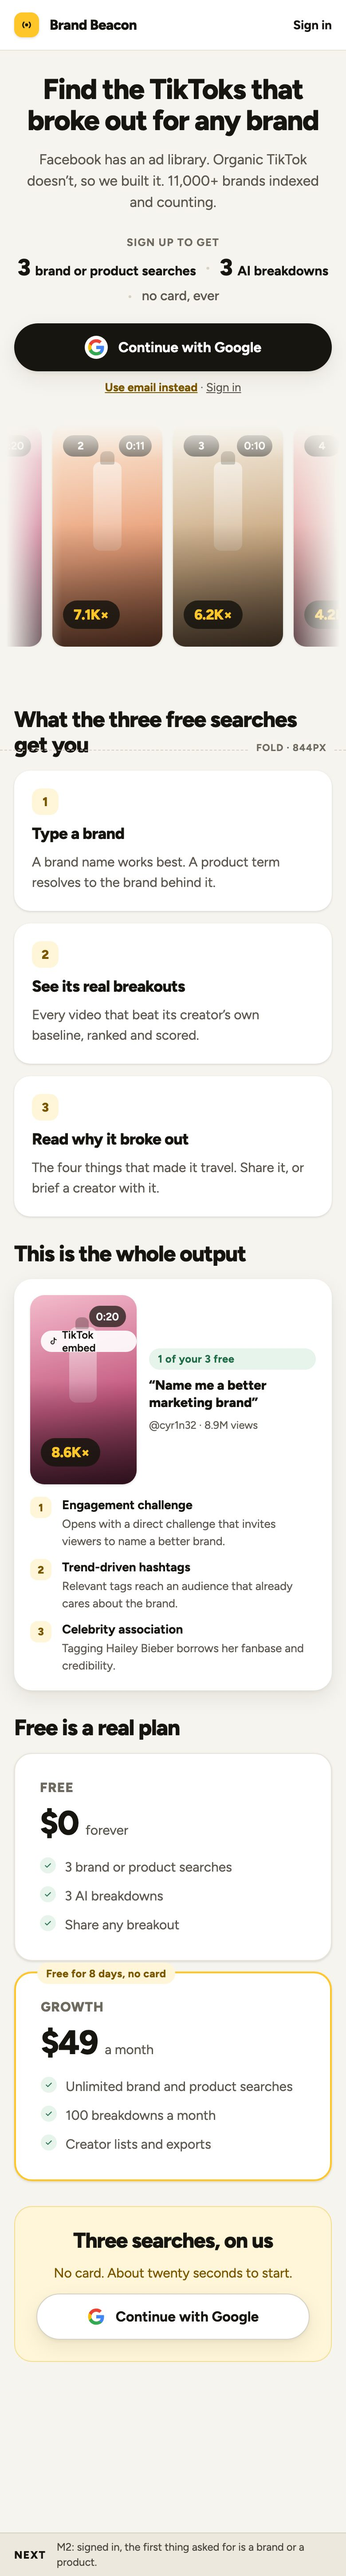
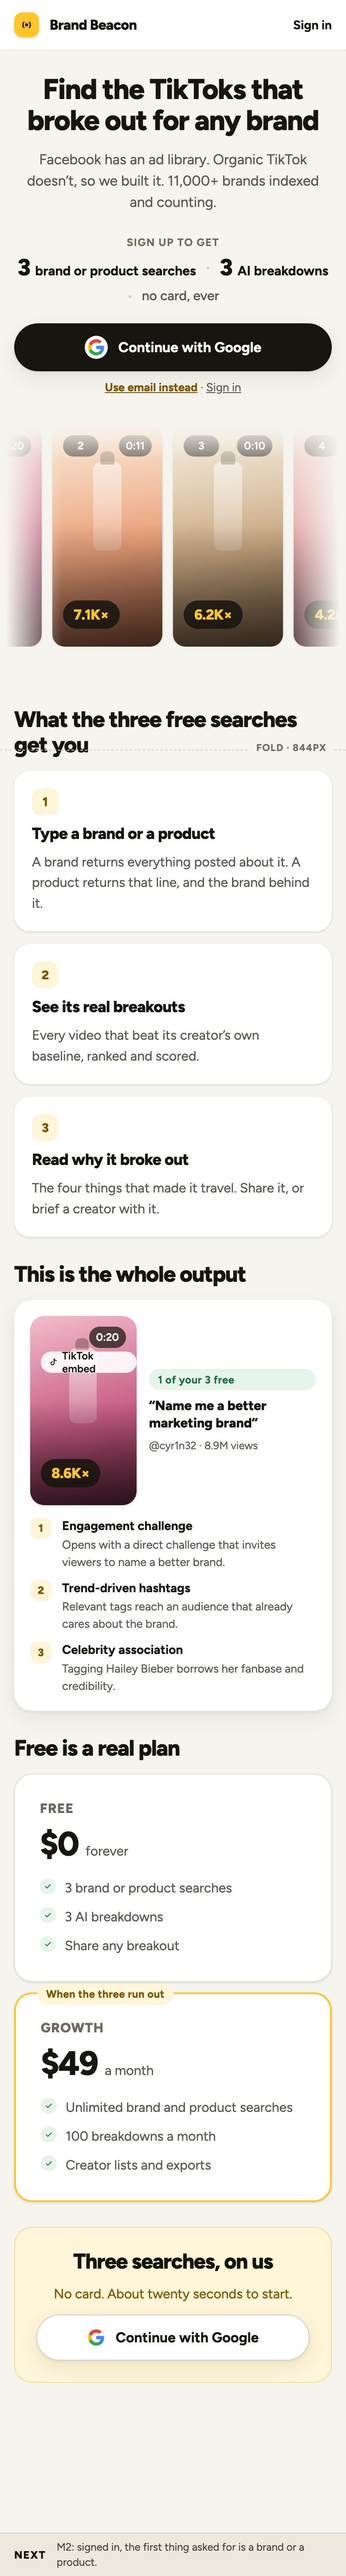
Landing page: drop the leftover 8-day trial badge, step 1 names products

diff --git a/user-flow/src/gen.py b/user-flow/src/gen.py
@@ -258,7 +258,7 @@ def fake_field(text, w='100%', icon=None):
 def price_card(name, price, sub, feats, highlight=False):
     li = ''.join(f'<li style="display:flex; align-items:flex-start; gap:10px; font-size:15px; color:{T2}; line-height:1.5;">{check_dot(18)}<span>{f}</span></li>' for f in feats)
     bd = f'border:2px solid {Y};' if highlight else f'border:1px solid {LINE};'
-    tag = f'<span style="position:absolute; top:-12px; left:24px;">{pill("Free for 8 days, no card")}</span>' if highlight else ''
+    tag = f'<span style="position:absolute; top:-12px; left:24px;">{pill("When the three run out")}</span>' if highlight else ''
     return (f'<div style="position:relative; flex:1; background:{SURF}; border-radius:20px; padding:28px; box-sizing:border-box; {bd} box-shadow:{SH1}; '
             f'display:flex; flex-direction:column; gap:16px;">{tag}'
             f'<div><span style="font-size:15px; font-weight:800; letter-spacing:0.04em; text-transform:uppercase; color:{T3};">{name}</span>'
@@ -468,9 +468,9 @@ def d01b():
           f'<span style="height:9px; width:70%; border-radius:5px; background:{LINE};"></span>'
           f'<span style="height:9px; width:78%; border-radius:5px; background:{LINE};"></span></div>')
     how = (f'<div style="display:flex; flex-direction:column; gap:28px;">'
-           f'{h2("What the three free searches get you", "Sign in, type a brand, and the first breakdown is on screen inside two minutes.")}'
+           f'{h2("What the three free searches get you", "Sign in, type a brand or a product, and the first breakdown is on screen inside two minutes.")}'
            f'<div style="display:flex; gap:20px; align-items:stretch;">'
-           f'{step_card(1, "Type a brand", "A brand name works best. A product term resolves to the brand behind it, so you never have to guess which to use.", a1)}'
+           f'{step_card(1, "Type a brand or a product", "A brand returns everything posted about it. A product returns the videos about that line, and the brand behind it.", a1)}'
            f'{step_card(2, "See its real breakouts", "Every video that beat its creator&rsquo;s own baseline, ranked and scored. Indexed already, so it loads at once.", a2)}'
            f'{step_card(3, "Read why it broke out", "The four things that made it travel, written out. Share it, or brief a creator with it.", a3)}'
            f'</div></div>')
@@ -740,7 +740,7 @@ def m01b():
     body = (f'<div style="padding:28px 16px 32px; display:flex; flex-direction:column; gap:28px;">'
             f'<div style="display:flex; flex-direction:column; gap:14px;">'
             f'<h2 style="margin:0; font-size:25px; font-weight:800; letter-spacing:-0.03em; line-height:1.15;">What the three free searches get you</h2>'
-            f'{sec(1, "Type a brand", "A brand name works best. A product term resolves to the brand behind it.")}'
+            f'{sec(1, "Type a brand or a product", "A brand returns everything posted about it. A product returns that line, and the brand behind it.")}'
             f'{sec(2, "See its real breakouts", "Every video that beat its creator&rsquo;s own baseline, ranked and scored.")}'
             f'{sec(3, "Read why it broke out", "The four things that made it travel. Share it, or brief a creator with it.")}</div>'
             f'<div style="display:flex; flex-direction:column; gap:14px;"><h2 style="margin:0; font-size:25px; font-weight:800; letter-spacing:-0.03em; line-height:1.15;">This is the whole output</h2>{sample}</div>'
